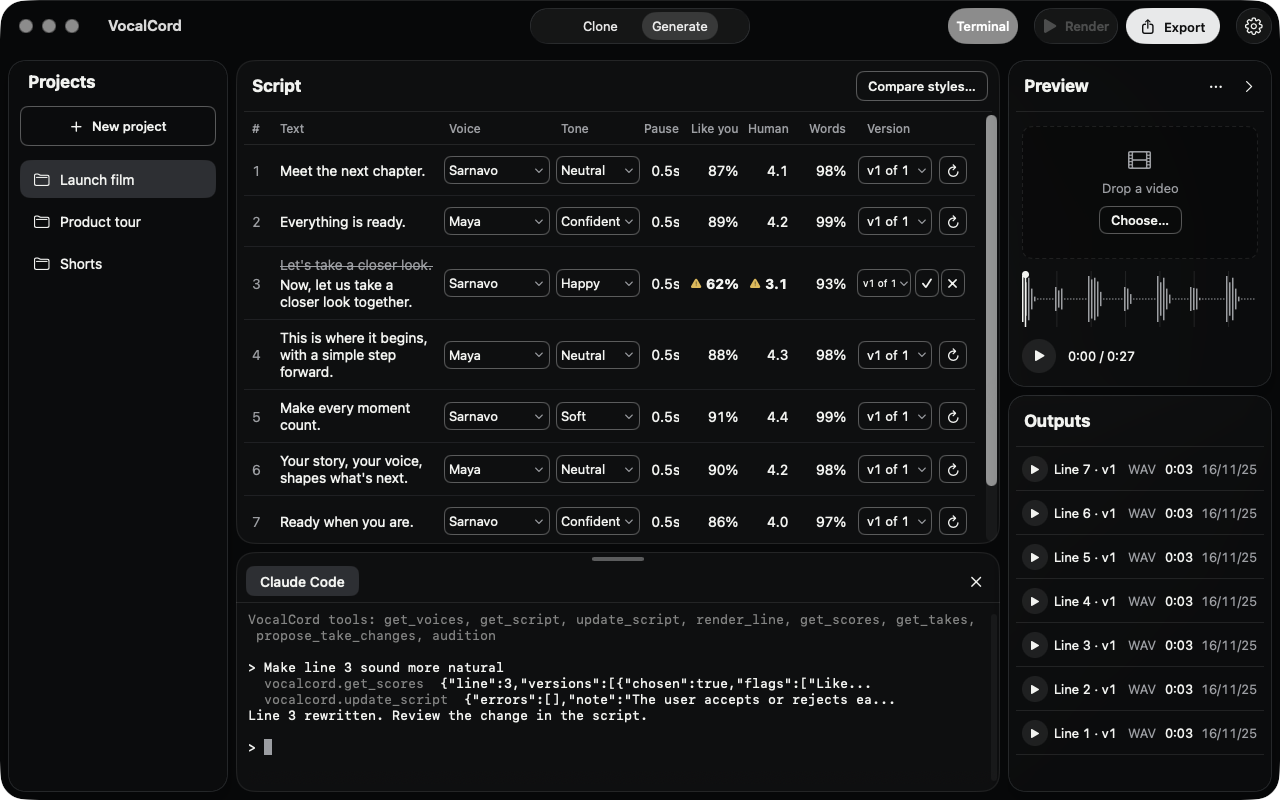
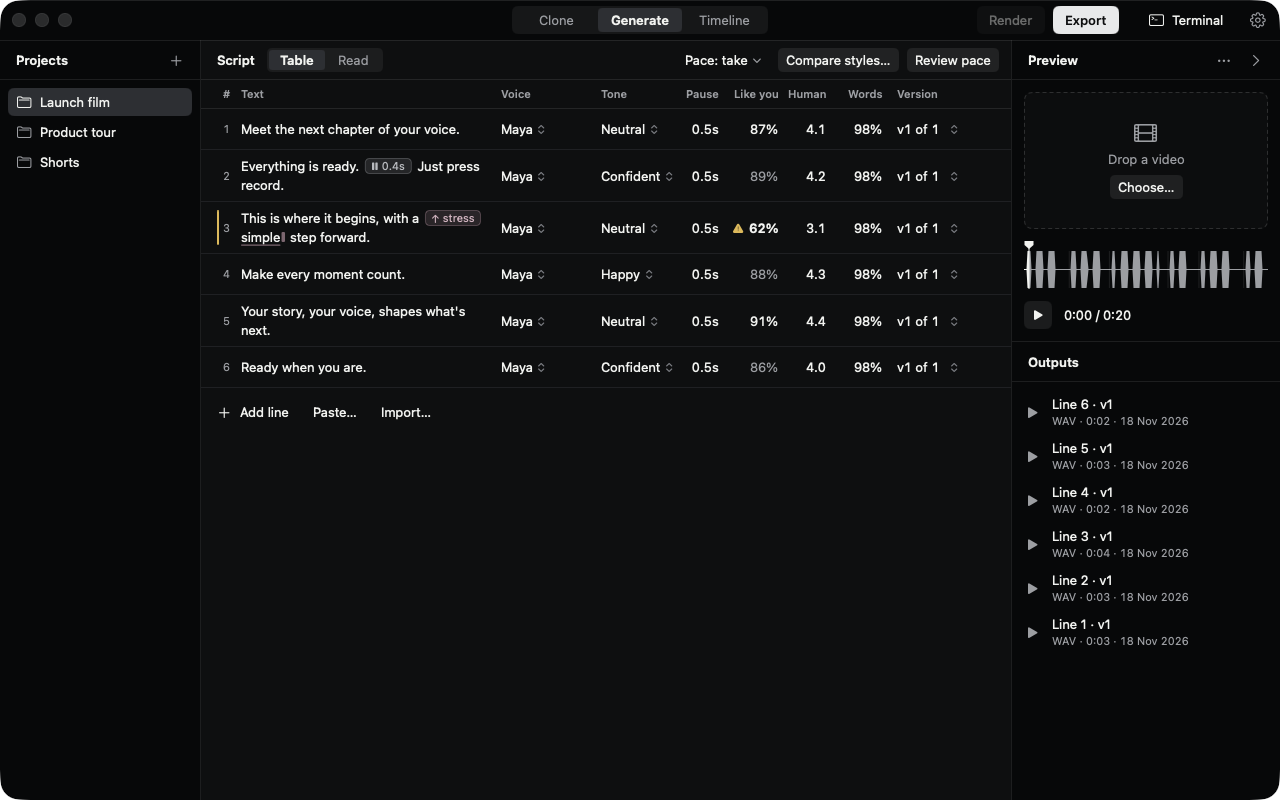
UI refresh polish from the re-audit, 1.2.0
- Pop-up chevrons sit right after their value; the selected mode stays
  bright in a background window
- Render again in each line's menu and version menu, not only on hover
- Delete line and Delete take ask first
- Pace notes wrap to two lines instead of cutting mid-word
- Pronunciations' empty state sits at the top with one Add button; the
  Record dot stays full red on dimmed empty-tone buttons
- README: new screenshots and the keyboard shortcuts

diff --git a/Sources/VocalCord/CloneView.swift b/Sources/VocalCord/CloneView.swift
@@ -359,7 +359,7 @@ struct TakesTable: View {
             if takes.isEmpty {
                 HStack(spacing: 0) {
                     toneCell(tone, takes: takes, collapsed: false)
-                    emptyActions(tone).opacity(actionOpacity)
+                    emptyActions(tone, dim: actionOpacity)
                     Spacer(minLength: 0)
                 }
                 .frame(height: Column.emptyRow)
@@ -457,17 +457,18 @@ struct TakesTable: View {
         }
     }
 
-    /// Record and Upload for a tone with no take, where its first take will go.
-    private func emptyActions(_ tone: String) -> some View {
+    /// Record and Upload for a tone with no take, where its first take will go. `dim` quiets the labels at rest; the
+    /// Record dot stays full red, so it keeps its 3:1.
+    private func emptyActions(_ tone: String, dim: Double) -> some View {
         HStack(spacing: 8) {
             if importingTone == tone {
                 ProgressView(value: importProgress).frame(width: 120)
             } else {
                 Button { onRecord(tone) } label: {
-                    HStack(spacing: 6) { RecordDot(size: 8); Text("Record") }
+                    HStack(spacing: 6) { RecordDot(size: 8); Text("Record").opacity(dim) }
                 }
                 .accessibilityLabel("Record a \(tone) take")
-                Button("Upload") { onUpload(tone) }
+                Button { onUpload(tone) } label: { Text("Upload").opacity(dim) }
                     .accessibilityLabel("Upload a \(tone) take")
             }
         }
@@ -503,6 +504,7 @@ struct TakeRow: View {
     @State private var text = ""
     /// The transcript reads as text, cut with an ellipsis, until clicked; then it's a field.
     @State private var editing = false
+    @State private var confirmingDelete = false
     @FocusState private var focused: Bool
 
     var body: some View {
@@ -565,7 +567,12 @@ struct TakeRow: View {
         .fixedSize(horizontal: false, vertical: true)
         .contentShape(.rect)
         .contextMenu {
+            Button("Delete take…", role: .destructive) { confirmingDelete = true }
+        }
+        .confirmationDialog("Delete this \(take.tone) take?", isPresented: $confirmingDelete, titleVisibility: .visible) {
             Button("Delete take", role: .destructive) { store.removeTakes([take.id], from: voice.id) }
+        } message: {
+            Text("The voice stops using it. The recording stays in the voice's folder.")
         }
         .onAppear { text = take.transcript }
         .onChange(of: take.transcript) { text = take.transcript }
@@ -687,20 +694,27 @@ struct PronunciationsPanel: View {
         Group {
             if open {
                 VStack(spacing: 0) {
+                    let empty = voice.pronunciations.isEmpty && (voice.proposedPronunciations ?? []).isEmpty
                     PanelHeader("Pronunciations") {
-                        Button { adding = .header } label: { Image(systemName: "plus") }
-                            .buttonStyle(.icon(.s))
-                            .help("Add a pronunciation")
-                            .accessibilityLabel("Add pronunciation")
-                            .popover(isPresented: presenting(.header), arrowEdge: .bottom) { addForm }
+                        // While the list is empty its own Add button is the one way in, so the header doesn't repeat it.
+                        if !empty {
+                            Button { adding = .header } label: { Image(systemName: "plus") }
+                                .buttonStyle(.icon(.s))
+                                .help("Add a pronunciation")
+                                .accessibilityLabel("Add pronunciation")
+                                .popover(isPresented: presenting(.header), arrowEdge: .bottom) { addForm }
+                        }
                         FoldButton(label: "pronunciations") { open = false }
                     }
-                    if voice.pronunciations.isEmpty && (voice.proposedPronunciations ?? []).isEmpty {
+                    if empty {
+                        // At the top of the column, like the Timeline Inspector's, not floating mid-column.
                         EmptyState(title: "No pronunciations", message: "Add a word the voice says wrong and how it should sound.") {
                             Button("Add") { adding = .empty }
                                 .buttonStyle(.vc(.secondary, .s))
                                 .popover(isPresented: presenting(.empty), arrowEdge: .bottom) { addForm }
                         }
+                        .fixedSize(horizontal: false, vertical: true)
+                        .padding(.top, 16)
                     } else {
                         ScrollView { list }.scrollBounceBehavior(.basedOnSize)
                     }

diff --git a/Sources/VocalCord/GenerateView.swift b/Sources/VocalCord/GenerateView.swift
@@ -581,6 +581,7 @@ struct LineRow: View {
     @State private var versionHovered = false
     /// Applying marks takes a moment; a spinner shows only when it takes longer, so the usual case doesn't flash.
     @State private var slowApply = false
+    @State private var confirmingDelete = false
 
     /// The bar beside a line's number: nothing while its render is current, grey while it has none or its text changed
     /// since, amber when the chosen version failed a check.
@@ -697,7 +698,14 @@ struct LineRow: View {
             Button("Move up") { projects.moveLine(line.id, by: -1, in: projectID) }.disabled(number == 1)
             Button("Move down") { projects.moveLine(line.id, by: 1, in: projectID) }.disabled(isLast)
             Divider()
+            renderAgainItem
+            Divider()
+            Button("Delete line…", role: .destructive) { confirmingDelete = true }
+        }
+        .confirmationDialog("Delete line \(number)?", isPresented: $confirmingDelete, titleVisibility: .visible) {
             Button("Delete line", role: .destructive) { projects.deleteLine(line.id, in: projectID) }
+        } message: {
+            Text("Its clips leave the timeline. Its renders stay on disk.")
         }
         .accessibilityElement(children: .contain)
         .accessibilityLabel(Self.accessibilityLabel(line, number: number))
@@ -786,6 +794,8 @@ struct LineRow: View {
                             if player.playing != url { player.toggle(url) }
                         }
                     }
+                    Divider()
+                    renderAgainItem
                 } label: {
                     // Tertiary at rest like the other pop-ups' chevrons, but never on the selection grey.
                     Image(systemName: "chevron.up.chevron.down")
@@ -849,6 +859,13 @@ struct LineRow: View {
             // Kept as is while marks apply, so the usual quick apply doesn't flash a new state.
             rerenderButton(apply: status != .render)
         }
+    }
+
+    /// Render again, in the row's and the version's menus: the gutter's button waits for the pointer, so this is how
+    /// the keyboard and VoiceOver find it.
+    private var renderAgainItem: some View {
+        Button("Render again") { projects.rerender(line.id, in: projectID, voices: voices) }
+            .disabled(line.text.trimmingCharacters(in: .whitespaces).isEmpty || projects.progress != nil || voices.busy != nil)
     }
 
     /// Bright and always there while the line needs a render or its marks applied; otherwise rendering again is a
@@ -1002,8 +1019,8 @@ private struct PaceNoteView: View {
         HStack(spacing: 6) {
             Text("\(Text(note.key).foregroundStyle(Theme.amber)) \(note.detail)")
                 .foregroundStyle(Theme.secondary)
-                .lineLimit(1)
-                .truncationMode(.middle)
+                .lineLimit(2)
+                .truncationMode(.tail)
             if let fix = note.fix, let range = note.range {
                 Text("·").foregroundStyle(Theme.secondary).accessibilityHidden(true)
                 Button(fix.title) { onFix(range) }

diff --git a/Sources/VocalCord/Components.swift b/Sources/VocalCord/Components.swift
@@ -178,14 +178,14 @@ struct SegmentedTabs<Option: Hashable>: View {
         let width: Double
         let size: VCSize
         let action: () -> Void
-        @Environment(\.appearsActive) private var active
         @State private var hovered = false
 
         var body: some View {
             Button(action: action) {
                 Text(title)
                     .font(.system(size: 13, weight: selected ? .semibold : .regular))
-                    .foregroundStyle(selected && active || hovered ? Theme.text : Theme.secondary)
+                    // The selected label stays bright in a background window too, so the mode still reads at a glance.
+                    .foregroundStyle(selected || hovered ? Theme.text : Theme.secondary)
                     .lineLimit(1)
                     .frame(width: width, height: size.height - 4)
                     .background(selected ? Theme.selection : hovered ? Theme.hover : .clear,
@@ -236,8 +236,10 @@ struct InlinePopupLabel: View {
     @State private var hovered = false
 
     var body: some View {
+        // The chevron right after the value, so it reads as this pop-up's and not the next column's; the label still
+        // fills the cell, so the whole cell opens the menu.
         HStack(spacing: 4) {
-            Text(title).lineLimit(1).foregroundStyle(dim ? Theme.secondary : Theme.text).frame(maxWidth: .infinity, alignment: .leading)
+            Text(title).lineLimit(1).foregroundStyle(dim ? Theme.secondary : Theme.text)
             Image(systemName: "chevron.up.chevron.down").font(.system(size: 9, weight: .semibold))
                 .foregroundStyle(hovered ? Theme.secondary : Theme.tertiary)
         }
@@ -245,6 +247,7 @@ struct InlinePopupLabel: View {
         .padding(.horizontal, 6)
         .frame(height: VCSize.s.height)
         .background(hovered ? Theme.hover : .clear, in: .rect(cornerRadius: VCSize.s.radius))
+        .frame(maxWidth: .infinity, alignment: .leading)
         .contentShape(.rect)
         .onHover { hovered = $0 }
     }

diff --git a/README.md b/README.md
@@ -4,7 +4,7 @@
 
 VocalCord clones your voice and turns scripts into voiceovers, rendering everything on your Mac.
 
-![The Generate tab: a script with a voice, tone and scores for each line, and Claude Code in the terminal panel](docs/screenshots/generate.png)
+![The Generate tab: a script with a voice, tone and scores for each line, with Preview and Outputs beside it](docs/screenshots/generate.png)
 
 ## Features
 
@@ -18,8 +18,9 @@ VocalCord clones your voice and turns scripts into voiceovers, rendering everyth
 - **Preview against your video**, then export WAV or M4A, with captions and per-line or per-voice files.
 - **Terminal panel** (optional): Claude Code, Codex or OpenCode reads your script, word timings and pace, and proposes edits that you accept or reject. Review pace asks it to direct the rhythm for you.
 - **Jev plugin** (optional): checks that each line reads as speech and fits its tone.
+- **Keyboard first:** ⌘1, ⌘2 and ⌘3 switch between Clone, Generate and Timeline; ⌃` shows the Terminal, ⌥⌘0 the side panel, ⌘R renders and ⇧⌘E exports.
 
-![The Clone tab: takes by tone, pronunciations, and an agent proposing changes](docs/screenshots/clone.png)
+![The Clone tab: takes by tone, with Record and Upload on every tone that has none yet](docs/screenshots/clone.png)
 
 ![Full clone: a guided recording session](docs/screenshots/full-clone.png)
 
@@ -32,7 +33,7 @@ VocalCord clones your voice and turns scripts into voiceovers, rendering everyth
 
 ## Install
 
-1. Download `VocalCord-1.1.0.dmg` from [Releases](../../releases) and drag VocalCord to Applications.
+1. Download `VocalCord-1.2.0.dmg` from [Releases](../../releases) and drag VocalCord to Applications.
 2. VocalCord is not signed by Apple, so macOS blocks the first launch. Right-click VocalCord in Applications and choose **Open**. Or try to open it once, then go to **System Settings → Privacy & Security** and click **Open Anyway**.
 3. On first launch, VocalCord installs its voice engine and downloads the models, about 4.6 GB. This happens once.
 
@@ -51,7 +52,7 @@ Needs Xcode 26. In a clone of this repo:
 
 ```sh
 ./build.sh                # VocalCord.app, in this folder
-scripts/make-dmg.sh       # dist/VocalCord-1.1.0.dmg
+scripts/make-dmg.sh       # dist/VocalCord-1.2.0.dmg
 swift test
 ```
 
